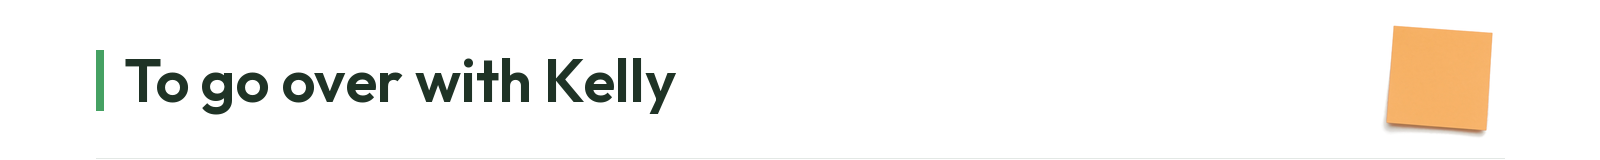
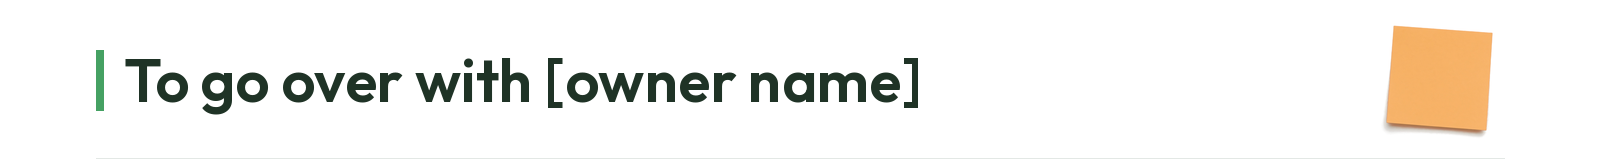
Use a generic owner name on the Sticky Note templates.
Replace the sample heading "To go over with Kelly" with "To go over with [owner name]" in the Modern v5 builder, template notes, and rebuilt banner and mockup images.

Changed region(s): [[0.3438, 0.3438, 0.5938, 0.7188]]

diff --git a/organization/sticky-note/assets/templates/modern-v5/build.py b/organization/sticky-note/assets/templates/modern-v5/build.py
@@ -34,7 +34,7 @@ COLORS={'Fix it':(0x45,0xA1,0x63),
         'Parked for later':(0xA8,0xBF,0xA0),
         'To talk about':(0x9C,0xCF,0xD8),
         'Lessons learned':(0xD6,0xE8,0xA8),
-        'To go over with Kelly':(0xF7,0xB2,0x67)}
+        'To go over with [owner name]':(0xF7,0xB2,0x67)}
 notes={k:whiten_bg(tint_to(NOTE_IM,(500,200,800,500),v)) for k,v in COLORS.items()}
 WHITE=(255,255,255)
 def place(crop,size,bg,feather=160):
@@ -52,9 +52,9 @@ d.text((100,262),'Everything open, in one place',font=font(56,'Regular'),fill=GR
 d.rectangle((100,340,172,346),fill=YEL)
 hdr.save(os.path.join(HERE, 'header.png'))
 # Banners: single yellow note crop
-# "To go over with Kelly" is a sample name. Rename it for the human. See ../README.md.
+# "To go over with [owner name]" is a sample name. Rename it for the human. See ../README.md.
 
-names=['Fix it',"What we're working on",'Waiting on you','Parked for later','To talk about','Lessons learned','To go over with Kelly']
+names=['Fix it',"What we're working on",'Waiting on you','Parked for later','To talk about','Lessons learned','To go over with [owner name]']
 BANNER_FILES={
     'Fix it':'banner-fix-it.png',
     "What we're working on":'banner-what-were-working-on.png',
@@ -62,7 +62,7 @@ BANNER_FILES={
     'Parked for later':'banner-parked-for-later.png',
     'To talk about':'banner-to-talk-about.png',
     'Lessons learned':'banner-lessons-learned.png',
-    'To go over with Kelly':'banner-to-go-over.png',
+    'To go over with [owner name]':'banner-to-go-over.png',
 }
 ban={}
 for n in names:
@@ -84,7 +84,7 @@ def lines(ls):
     for i,t in enumerate(ls):
         y=40+i*58; d.ellipse((124,y+12,136,y+24),fill=GREEN); d.text((160,y),t,font=body,fill=TEXT)
     return im
-samples={'Fix it':s1,'To talk about':['Which brand kit to build first'],'To go over with Kelly':['Sticky Note art test results'],"What we're working on":['Drafting the fall newsletter','Updating the service page photos'],
+samples={'Fix it':s1,'To talk about':['Which brand kit to build first'],'To go over with [owner name]':['Sticky Note art test results'],"What we're working on":['Drafting the fall newsletter','Updating the service page photos'],
  'Waiting on you':s2,'Parked for later':['Refresh the about page story'],'Lessons learned':['Short captions get more replies','Batching posts on Mondays saves time']}
 parts=[hdr,Image.new('RGB',(1600,40),'white')]
 for n in names: parts+= [ban[n],lines(samples[n]),Image.new('RGB',(1600,30),'white')]

diff --git a/organization/sticky-note/assets/templates/README.md b/organization/sticky-note/assets/templates/README.md
@@ -10,7 +10,7 @@ The bot builds the Sticky Note PDF from these files. Ask your human how they wan
 - `banner-waiting-on-you.png`: banner for "Waiting on you".
 - `banner-fix-it.png`: banner for "Fix it".
 - `banner-to-talk-about.png`: banner for "To talk about".
-- `banner-to-go-over.png`: banner whose words say "To go over with Kelly". That name is a sample, to be renamed for the human.
+- `banner-to-go-over.png`: banner whose words say "To go over with [owner name]". Put the bot owner's name in the brackets. The bot owner ([owner's name]) has final approval.
 - `banner-parked-for-later.png`: banner for "Parked for later".
 - `banner-lessons-learned.png`: banner for "Lessons learned".
 - `build.py`: builds the header, the banners, and the mockup. Picture and font paths are relative to this folder.
